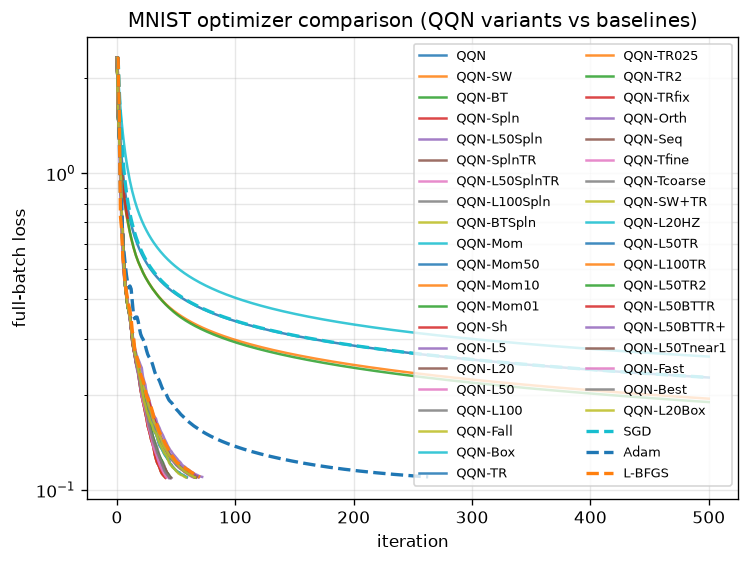
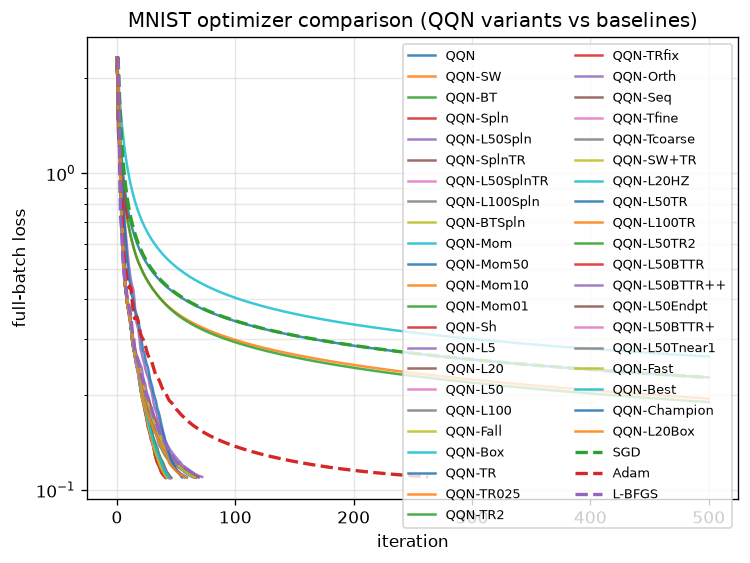
wip

diff --git a/examples/mnist_comparison.py b/examples/mnist_comparison.py
@@ -909,18 +909,18 @@ def main():
         # value evaluation); a clean per-step cost metric for fair comparison.
         n_iters = max(len(history) - 1, 1)
         ms_per_iter = (wall / n_iters) * 1e3
-    # Trajectory AUC: a single scalar summarizing *both* early- and late-phase
-    # descent speed. We integrate log10(loss) over the (normalized) iteration
-    # axis via the trapezoid rule; lower AUC means the optimizer spent its
-    # whole trajectory at lower loss, which is far more discriminating than a
-    # single time-to-target (it rewards fast early descent AND deep late
-    # refinement simultaneously, without favouring either phase).
-    log_hist = np.log10(np.maximum(np.asarray(history), 1e-12))
-    if len(log_hist) > 1:
-        x_axis = np.linspace(0.0, 1.0, len(log_hist))
-        traj_auc = float(np.trapz(log_hist, x_axis))
-    else:
-        traj_auc = float(log_hist[-1])
+        # Trajectory AUC: a single scalar summarizing *both* early- and
+        # late-phase descent speed. We integrate log10(loss) over the
+        # (normalized) iteration axis via the trapezoid rule; lower AUC means
+        # the optimizer spent its whole trajectory at lower loss, which is far
+        # more discriminating than a single time-to-target (it rewards fast
+        # early descent AND deep late refinement simultaneously).
+        log_hist = np.log10(np.maximum(np.asarray(history), 1e-12))
+        if len(log_hist) > 1:
+            x_axis = np.linspace(0.0, 1.0, len(log_hist))
+            traj_auc = float(np.trapezoid(log_hist, x_axis))
+        else:
+            traj_auc = float(log_hist[-1])
         results[name] = {
             "final_loss": history[-1],
             "best_loss": min(history),

diff --git a/README.md b/README.md
@@ -1,6 +1,6 @@
 # qqn-jax
 
-**Quasi-Quadratic-Newton (QQN)** — a JAX/Optax optimizer that blends steepest
+**Quadratic Quasi-Newton (QQN)** — a JAX/Optax optimizer that blends steepest
 descent with a quasi-Newton oracle (L-BFGS by default) along a smooth quadratic
 path, navigated by a robust line search.
 
@@ -101,14 +101,14 @@ QQN(
     maxiter=100,
     tol=1e-5,
     history_size=10,
-    line_search="armijo",         # "armijo" (default) | "backtracking" |
-                                  # "strong_wolfe" | "hager_zhang" |
-                                  # "fixed" | "spline"
-    line_search_options=None,     # dict of kwargs for the line search
+    line_search="armijo",  # "armijo" (default) | "backtracking" |
+    # "strong_wolfe" | "hager_zhang" |
+    # "fixed" | "spline"
+    line_search_options=None,  # dict of kwargs for the line search
     has_aux=False,
     t_grid=None,
-    oracle="lbfgs",               # "lbfgs" | "momentum" | "shampoo" | Oracle
-    region=None,                  # Region | None
+    oracle="lbfgs",  # "lbfgs" | "momentum" | "shampoo" | Oracle
+    region=None,  # Region | None
 )
 ```
 
@@ -133,7 +133,7 @@ solver = QQN(fun, oracle=oracle)
 ```
 
 When `oracle="lbfgs"` (the default), the optimizer is byte-for-byte equivalent
-to the reference behavior. See [`oracles.md`](oracles.md) for details.
+to the reference behavior. See [`oracles.md`](docs/oracles.md) for details.
 
 ### Projective Regions
 
@@ -152,7 +152,7 @@ solver = QQN(fun, region=region)
 ```
 
 When `region=None`, behavior is identical to the unconstrained optimizer.
-See [`regions.md`](regions.md) for details.
+See [`regions.md`](docs/regions.md) for details.
 
 ---
 
@@ -166,8 +166,26 @@ See [`regions.md`](regions.md) for details.
 | [`spline_search.md`](docs/spline_search.md) | Cubic-Hermite spline line search that reuses gradient measurements. |
 | [`python.md`](docs/python.md)               | venv, testing, linting, and publishing workflow.                    |
 | [`libraries.md`](docs/libraries.md)         | Installing JAX/jaxlib and the MNIST dataset.                        |
+| [`results.md`](docs/results.md)             | Empirical MNIST benchmark: QQN vs. baselines and component sweeps.  |
+| [`conclusions.md`](docs/conclusions.md)     | Synthesis of the experimental findings and design-claim validation. |
+## Empirical Results
+On a smooth, deterministic, full-batch softmax-MNIST benchmark, QQN reaches a
+shared loss target in **fewer iterations than L-BFGS** (65 vs. 70) while
+running ~1.3× faster in wall-clock time, and in ~4× fewer iterations than
+Adam. Deep L-BFGS memory is the dominant convergence-speed lever, the line
+search trades wall-time (not convergence speed), and regions act as
+low-overhead safeguards. The best-of-breed stack (deep L-BFGS memory +
+backtracking + adaptive trust-region, `QQN-L50BTTR`) reaches the target in
+just **41 iterations**.
+See [`results.md`](docs/results.md) for the full benchmark and
+[`conclusions.md`](docs/conclusions.md) for the analysis. Reproduce with:
+```bash
+python examples/mnist_comparison.py
+```
+---
 
 ---
+
 
 ## Theoretical Guarantees
 